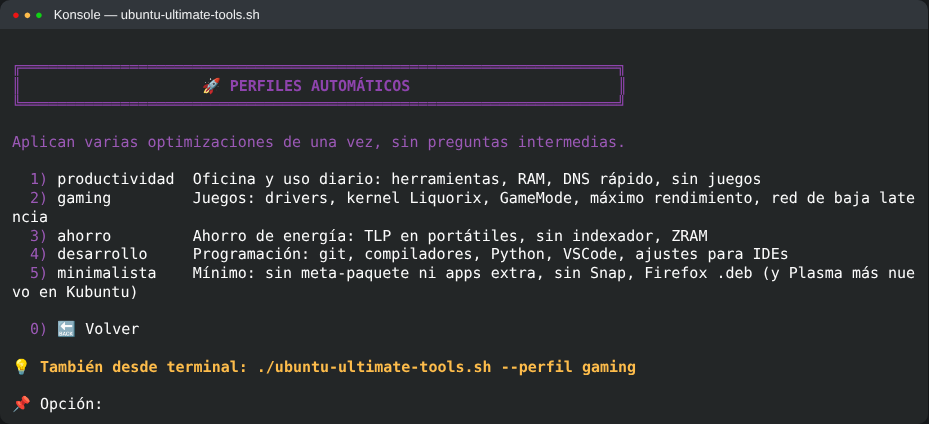
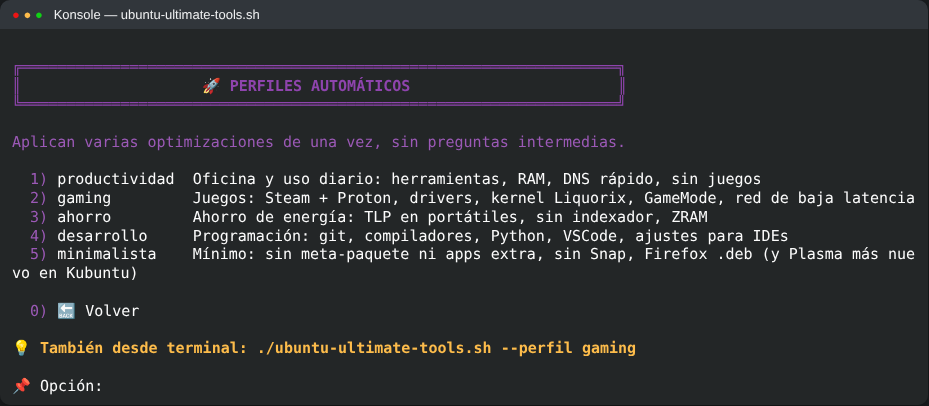
Steam y Proton en el software opcional y en el perfil gaming

diff --git a/README.md b/README.md
@@ -114,7 +114,7 @@ o desde la terminal:
 | Perfil | Qué hace |
 |--------|----------|
 | `productividad` | Actualiza, quita juegos, instala git/htop/timeshift..., RAM + ZRAM, TRIM, DNS más rápido, TCP BBR |
-| `gaming` | Drivers recomendados, kernel Liquorix, GameMode + MangoHud, energía al máximo, sin Baloo, Wi-Fi sin ahorro, BBR, DNS |
+| `gaming` | **Steam + Proton** (activado para todos los juegos) y Proton-GE, drivers recomendados, kernel Liquorix, GameMode + MangoHud, energía al máximo, sin Baloo, Wi-Fi sin ahorro, BBR, DNS |
 | `ahorro` | TLP en portátiles (perfil de ahorro en PC), sin Baloo, ZRAM, RAM, TRIM |
 | `desarrollo` | git, build-essential, Python, VSCode, más vigilancia de archivos para IDEs, RAM, ZRAM, BBR, DNS |
 | `minimalista` | Mínimo: sin el meta-paquete del sabor ni apps extra, sin Snap, Firefox .deb de Mozilla (en KDE, Plasma de backports) |
@@ -143,11 +143,23 @@ o desde la terminal:
 ## 🔋 Energía y rendimiento (opción 16)
 
 Perfiles rendimiento / equilibrado / ahorro, TLP para portátiles, activar o desactivar el indexador
-de archivos Baloo, y GameMode + MangoHud para juegos.
+de archivos Baloo, y herramientas de juego: GameMode, MangoHud, Steam y Proton-GE.
 
 MangoHud queda configurado: muestra los FPS en el juego y los graba en ~/mangohud-logs (SysMonitorPro los lee).
 Opcionalmente (y siempre en el perfil `gaming`) se activa en todos los juegos Vulkan/Proton sin tocar Steam.
 Shift derecho + F12 oculta el panel · Shift izquierdo + F2 pausa/reanuda la grabación.
+
+### 🎮 Steam y Proton
+
+- **Steam**: se instala el `.deb` oficial de Valve y se activan las librerías de 32 bits (`i386`) que necesitan
+  Steam y los juegos, incluida la parte de 32 bits del driver de NVIDIA si lo usas.
+- **Proton** viene dentro de Steam. El script lo activa para **todos los juegos** (Proton Experimental):
+  si Steam todavía no se abrió nunca, ábrelo una vez, inicia sesión, ciérralo y usa la opción 16 → 6;
+  o actívalo a mano en *Steam → Configuración → Compatibilidad*. Si ya elegiste una versión, no se cambia.
+- **Proton-GE**: la última versión se descarga de la página oficial del proyecto, se comprueba que llegó
+  entera (suma SHA-512) y se instala en `compatibilitytools.d`. Se elige por juego en
+  *Propiedades → Compatibilidad*. Funciona también con Steam de Flatpak.
+- Se quitan desde la opción 18: Steam en "Quitar programas" y Proton-GE en "Quitar Proton-GE".
 
 ---
 
@@ -238,6 +250,7 @@ disponible, se vuelve a la selección escribiendo números.
   Antes de desinstalar avisa si se quitará algo más por dependencias.
 - **Restaurar ajustes del sistema** (RAM, inotify, BBR...) a sus valores de fábrica.
 - **Desactivar ZRAM** y **quitar TLP** (vuelve el selector de energía del escritorio).
+- **Quitar Proton-GE** (las versiones que instaló el script).
 - **Restaurar todos los ajustes** de una vez, sin desinstalar programas. "Revertir a
   distribución original" (opción 9) también lo hace.
 
@@ -336,6 +349,8 @@ desde la opción 18.
 | Google Chrome | Navegador web | `.deb` oficial de Google |
 | Telegram | Mensajería | Ubuntu |
 | Discord | Chat de voz y texto | `.deb` oficial |
+| Steam | Juegos; incluye **Proton** para jugar juegos de Windows | `.deb` oficial de Valve (o el de Ubuntu) |
+| Proton-GE | Proton de la comunidad, con arreglos para más juegos | Página oficial del proyecto (descarga verificada) |
 | Spotify | Música | Repositorio de Spotify |
 | OBS Studio | Grabar pantalla y hacer streaming | Ubuntu |
 | Python 3, PIP y entornos virtuales | Programación | Ubuntu |
